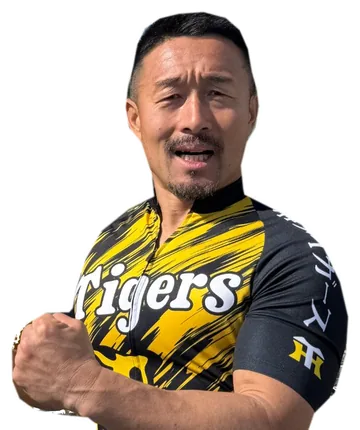
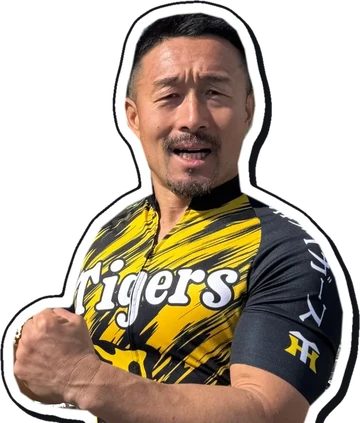
11/16 スペシャル配信のカードの名前を金文字で大きく・吹き出しを足す（見本）
- 名前を左下に大きく、金の字に赤と黒の縁（Zen Old Mincho の900）
- 「現役選手が初登場！」の赤い帯を名前の上に
- 慎太郎さんの吹き出し「ガハハ！」（Potta One、ぎざぎざの吹き出し）
- 切り抜きを白い縁＋黒の線＋ずらし影に（中継ページも同じ画像）

石田さん 11/14 夕方の指示。mainへは「出して」のあと

diff --git a/src/styles/home-2026-11.css b/src/styles/home-2026-11.css
@@ -109,8 +109,6 @@ body.kd-top .kd-special-lead{position:relative;z-index:1;align-self:start;paddin
 body.kd-top .kd-special-photo{justify-self:end;align-self:end;width:68cqw;max-width:none;height:auto;margin:6px -12cqw 0 0}
 body.kd-top .kd-special-title{margin:0;padding:10px 14px 11px;background:var(--k-navy);color:#fff;font-family:var(--k-disp);font-weight:400;font-size:clamp(19px,5.6vw,22px);line-height:1.4;text-align:left}
 body.kd-top .kd-special-head .kd-special-title{background:none;font-size:clamp(16px,5.9cqw,22px)}
-/* 写真があるときは、ゲストの札を拳のすぐ上に（題との間をカードの幅に合わせて空ける） */
-body.kd-top .kd-special-head:has(.kd-special-photo) .kd-special-guest{margin-top:max(12px,calc(41cqw - 95px))}
 body.kd-top .kd-special-title>span{display:block}
 body.kd-top .kd-special-title>span+span{color:var(--k-yellow)}
 /* 見出しの書体（Dela Gothic One）にローマ数字の字がないので、Ⅰ だけ本文の書体の太字にする */
@@ -120,11 +118,24 @@ body.kd-top .kd-special-when time{display:grid;grid-template-columns:auto auto;j
 body.kd-top .kd-special-day{font-family:var(--k-num);font-size:58px;line-height:.9;color:var(--k-red);letter-spacing:.01em}
 body.kd-top .kd-special-dow{display:grid;place-items:center;width:36px;height:36px;border:2px solid var(--k-ink);border-radius:4px;background:var(--k-yellow);font-family:var(--k-disp);font-size:19px;line-height:1;transform:rotate(-7deg)}
 body.kd-top .kd-special-time{grid-column:1/-1;justify-self:start;padding:1px 10px 2px;background:var(--k-ink);color:var(--k-yellow);font-family:var(--k-num);font-size:27px;line-height:1.25;letter-spacing:.02em}
-body.kd-top .kd-special-guest{display:flex;flex-wrap:wrap;align-items:center;gap:6px 8px;margin:2px 0 0;padding:0 14px;color:#fff;font-size:13px;font-weight:900;line-height:1.5}
-body.kd-top .kd-special-guest b{padding:0 7px;border-radius:4px;background:var(--k-red);color:#fff;font-size:12px;font-weight:700;line-height:1.8}
-body.kd-top .kd-special-epithet{color:var(--k-yellow)}
-body.kd-top .kd-special-name{flex-basis:100%;font-family:var(--k-disp);font-weight:400;font-size:clamp(18px,6.7cqw,26px);line-height:1.3}
-body.kd-top .kd-special-name small{margin-left:2px;font-size:.62em}
+/* 11/16の回：題の下に慎太郎さんの吹き出し、左下に名前を大きく金文字で（石田さん 11/14）。
+   名前と吹き出しは、LPのほかの所と違う書体（Zen Old Mincho の900・Potta One。KdHead で使う字だけ読む） */
+body.kd-top .kd-special-bubble{position:relative;z-index:2;justify-self:start;align-self:start;display:grid;place-items:center;width:52cqw;aspect-ratio:230/112;margin:24cqw 0 0 2cqw;transform:rotate(-7deg);animation:kd-gahaha 1.4s ease-in-out infinite}
+body.kd-top .kd-special-bubble>*{grid-area:1/1}
+body.kd-top .kd-special-bubble svg{width:100%;height:100%;overflow:visible;filter:drop-shadow(3px 3px 0 var(--k-ink))}
+body.kd-top .kd-special-bubble path{fill:#fff;stroke:var(--k-ink);stroke-width:3;stroke-linejoin:round;vector-effect:non-scaling-stroke}
+body.kd-top .kd-special-bubble span{position:relative;margin-right:14%;color:var(--k-red);font-family:"Potta One",var(--k-disp);font-size:10cqw;line-height:1;-webkit-text-stroke:1.5px var(--k-ink)}
+@keyframes kd-gahaha{0%,100%{transform:rotate(-7deg) scale(1)}50%{transform:rotate(-4deg) scale(1.07)}}
+@media (prefers-reduced-motion:reduce){body.kd-top .kd-special-bubble{animation:none}}
+body.kd-top .kd-special-guest{position:relative;z-index:2;align-self:end;justify-self:start;margin:0;padding:0 0 12px 8px}
+body.kd-top .kd-special-debut{display:inline-block;margin:0 0 2px 6px;padding:2px 10px 3px;border:2px solid var(--k-ink);background:var(--k-red);color:#fff;font-family:"Zen Old Mincho",serif;font-weight:900;font-size:clamp(14px,4.8cqw,19px);line-height:1.3;transform:rotate(-3deg);box-shadow:3px 3px 0 var(--k-ink)}
+body.kd-top .kd-special-name{display:grid;font-family:"Zen Old Mincho",serif;font-weight:900;font-size:min(15.5cqw,64px);line-height:1.12;letter-spacing:-.03em;white-space:nowrap}
+/* 同じ文字を3枚重ねる：黒の太い縁と影 → 赤の縁 → 金の字 */
+body.kd-top .kd-sn{grid-area:1/1;padding:0 .12em}
+body.kd-top .kd-sn small{margin-left:.04em;font-size:.46em;letter-spacing:0}
+body.kd-top .kd-sn-ink{color:var(--k-ink);-webkit-text-stroke:.3em var(--k-ink);text-shadow:.07em .08em 0 var(--k-ink)}
+body.kd-top .kd-sn-red{color:var(--k-red);-webkit-text-stroke:.17em var(--k-red)}
+body.kd-top .kd-sn-gold{background:linear-gradient(180deg,#fffbe2 0%,#ffe27a 30%,#e0a526 52%,#fff1a6 70%,#c48318 100%);-webkit-background-clip:text;background-clip:text;color:transparent;-webkit-text-stroke:.012em #7a4f0a}
 body.kd-top .kd-special-catch{margin-top:14px;padding-top:12px;border-top:2px dashed var(--k-ink);font-family:var(--k-disp);font-weight:400;line-height:1.3}
 body.kd-top .kd-special-catch span{display:block}
 body.kd-top .kd-special-catch span:first-child{font-size:17px}

diff --git a/src/fragments/home-special.html b/src/fragments/home-special.html
@@ -8,9 +8,13 @@
       <div class="kd-special-head">
         <div class="kd-special-lead">
           <h2 class="kd-special-title" id="special-title"><span>競輪祭G<span class="kd-special-roman">Ⅰ</span>前々検日</span><span>スペシャル配信決定！</span></h2>
-          <p class="kd-special-guest"><b>ゲスト</b><span class="kd-special-epithet">現役レジェンド</span><span class="kd-special-name">佐藤慎太郎<small>選手</small></span></p>
         </div>
-        <img class="kd-special-photo" src="/assets/images/rd/special-1116-sato-720.webp" srcset="/assets/images/rd/special-1116-sato-360.webp 360w, /assets/images/rd/special-1116-sato-720.webp 720w" sizes="(min-width:600px) 310px, 68vw" width="720" height="860" alt="拳を握ってガッツポーズをする佐藤慎太郎選手" loading="lazy" decoding="async">
+        <!-- 慎太郎さんの吹き出し（石田さん 11/14「名前の空いたスペースに慎太郎さんから吹き出しつけて「ガハハ！」。淡泊にならないように」） -->
+        <p class="kd-special-bubble" aria-hidden="true"><svg viewBox="0 0 230 112" preserveAspectRatio="none"><path d="M96.0 8.0 L108.8 18.6 L127.5 11.0 L132.8 23.4 L155.1 19.7 L152.4 32.3 L175.7 33.0 L165.2 44.3 L224.0 44.0 L169.6 58.0 L186.6 66.7 L165.2 71.7 L175.7 83.0 L152.4 83.7 L155.1 96.3 L132.8 92.6 L127.5 105.0 L108.8 97.4 L96.0 108.0 L83.2 97.4 L64.5 105.0 L59.2 92.6 L36.9 96.3 L39.6 83.7 L16.3 83.0 L26.8 71.7 L5.4 66.7 L22.4 58.0 L5.4 49.3 L26.8 44.3 L16.3 33.0 L39.6 32.3 L36.9 19.7 L59.2 23.4 L64.5 11.0 L83.2 18.6 Z"/></svg><span>ガハハ！</span></p>
+        <img class="kd-special-photo" src="/assets/images/rd/special-1116-sato-720.webp" srcset="/assets/images/rd/special-1116-sato-360.webp 360w, /assets/images/rd/special-1116-sato-720.webp 720w" sizes="(min-width:600px) 310px, 68vw" width="720" height="846" alt="拳を握ってガッツポーズをする佐藤慎太郎選手" loading="lazy" decoding="async">
+        <!-- 名前は左下に大きく金文字（石田さん 11/14「名前デカく、金、赤などでゴージャスな…位置は左下に」「「現役選手が初登場！」の文字を追加」）。
+             縁は3枚の同じ文字を重ねて作る（黒の太い縁→赤の縁→金の字）。読み上げは金の字の1枚だけ -->
+        <p class="kd-special-guest"><span class="kd-special-debut">現役選手が初登場！</span><span class="kd-special-name"><span class="kd-sn kd-sn-ink" aria-hidden="true">佐藤慎太郎<small>選手</small></span><span class="kd-sn kd-sn-red" aria-hidden="true">佐藤慎太郎<small>選手</small></span><span class="kd-sn kd-sn-gold">佐藤慎太郎<small>選手</small></span></span></p>
       </div>
       <div class="kd-special-body">
         <p class="kd-special-when"><time datetime="2026-11-16T21:00+09:00"><span class="kd-special-day">11/16</span><span class="kd-special-dow">月</span><span class="kd-special-time">21:00〜22:00</span></time></p>
